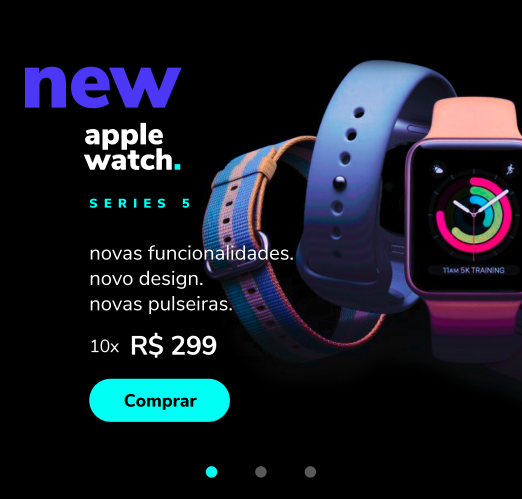
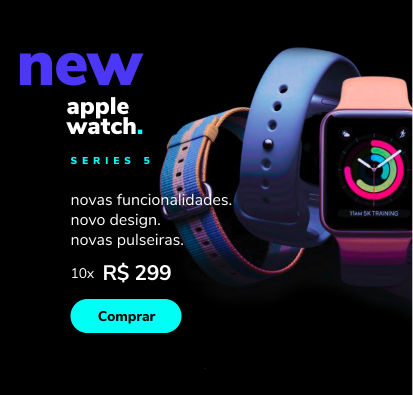
adição de icones e imagens no slider

diff --git a/styles/css/vtex.store-components.css b/styles/css/vtex.store-components.css
@@ -1,9 +1,8 @@
-
-
 .searchBarContainer :global(.vtex-styleguide-9-x-input) {
-  max-width: 208px;
+  
+  background: #4F32FE;
+ 
 }
-
 .infoCardContainer--info-card-home {
   max-width: 1520px;
   margin: 0 auto;
@@ -16,22 +15,18 @@
   max-width: 1528px;
   margin: 0 auto;
 }
-
 .newsletter .container {
   padding: 60px 10px;
 }
-
 .label {
   color: #fff;
   font-size: 26px;
 }
-
 .inputGroup {
   padding-bottom: 4px;
   display: flex;
   color: #fff;
 }
-
 .inputGroup :global(.vtex-styleguide-9-x-hideDecorators) {
   background-color: transparent;
   color: #fff;
@@ -109,8 +104,24 @@
   font-weight: bold;
   font-size: 30px;
 }
-.autoCompleteOuterContainer{
 
+.imageElement--paper-plane{
+  top: 517px;
+  width: 24px;
+  height: 23px;
+ 
+}
+.searchBarContainer {
   background: #4F32FE;
-
+  border:0px;
+ 
+}
+.container{
+  padding: 0px;
+  border:0px;
+ 
+ 
+}
+.flexRow--search :global(.vtex-store-components-3-x-searchBarIcon){
+  background:#4F32FE ;
 }

diff --git a/styles/css/vtex.rich-text.css b/styles/css/vtex.rich-text.css
@@ -61,12 +61,6 @@
   color: #03034E;
 }
 
-.container--title {
-  color: #03034E;
-  font-size: 28px;
-  font-weight: 700;
-}
-
 @media only screen and (min-width: 640px) {
   .container--question .strong {
     font-size: 40px;
@@ -77,14 +71,30 @@
     max-width: 85%;
   }
 
-  .container--title {
-    color: #03034E;
+  .container--Title {
+    color: black;
     font-size: 40px;
-    font-weight: 700;
+    margin: 0 auto;
     max-width: 60%;
+
   }
 
   .container--title .paragraph {
     line-height: 1.3em;
   }
+}
+.headingLevel2--Title{
+    color: #000000 ;
+    font-size: 23px;
+    
+}
+.paragraph--deals{
+  font-size:15px;
+  
+}
+.italic--deals{
+  font-size: 20px;
+  font-style: normal;
+  margin-right: 20px;
+  
 }

diff --git a/styles/css/vtex.flex-layout.css b/styles/css/vtex.flex-layout.css
@@ -41,12 +41,13 @@
   font-size: 14px;
 }
 .flexRow--deals {
-  background-color: #a7afbd;
+  background-color:#4F32FE;
   padding: 14px 0px;
 }
 
 .flexRow--deals .stretchChildrenWidth {
   align-items: center;
+
 }
 
 .flexRow--deals .flexCol {
@@ -95,4 +96,12 @@
 
 .flexRow--addToCartRow {
   padding-bottom: 1rem;
+}
+.flexCol--text{
+  background: #4F32FE;
+  width: 414px;
+ 
+}
+.flexRow--search :global(.vtex-input-prefix__group){
+  border: 0px;
 }

diff --git a/styles/css/vtex.slider-layout.css b/styles/css/vtex.slider-layout.css
@@ -3,6 +3,7 @@
 }
 .sliderLayoutContainer--carousel {
   background-color: #F0F0F0;
+
 }
 
 .sliderTrackContainer {
